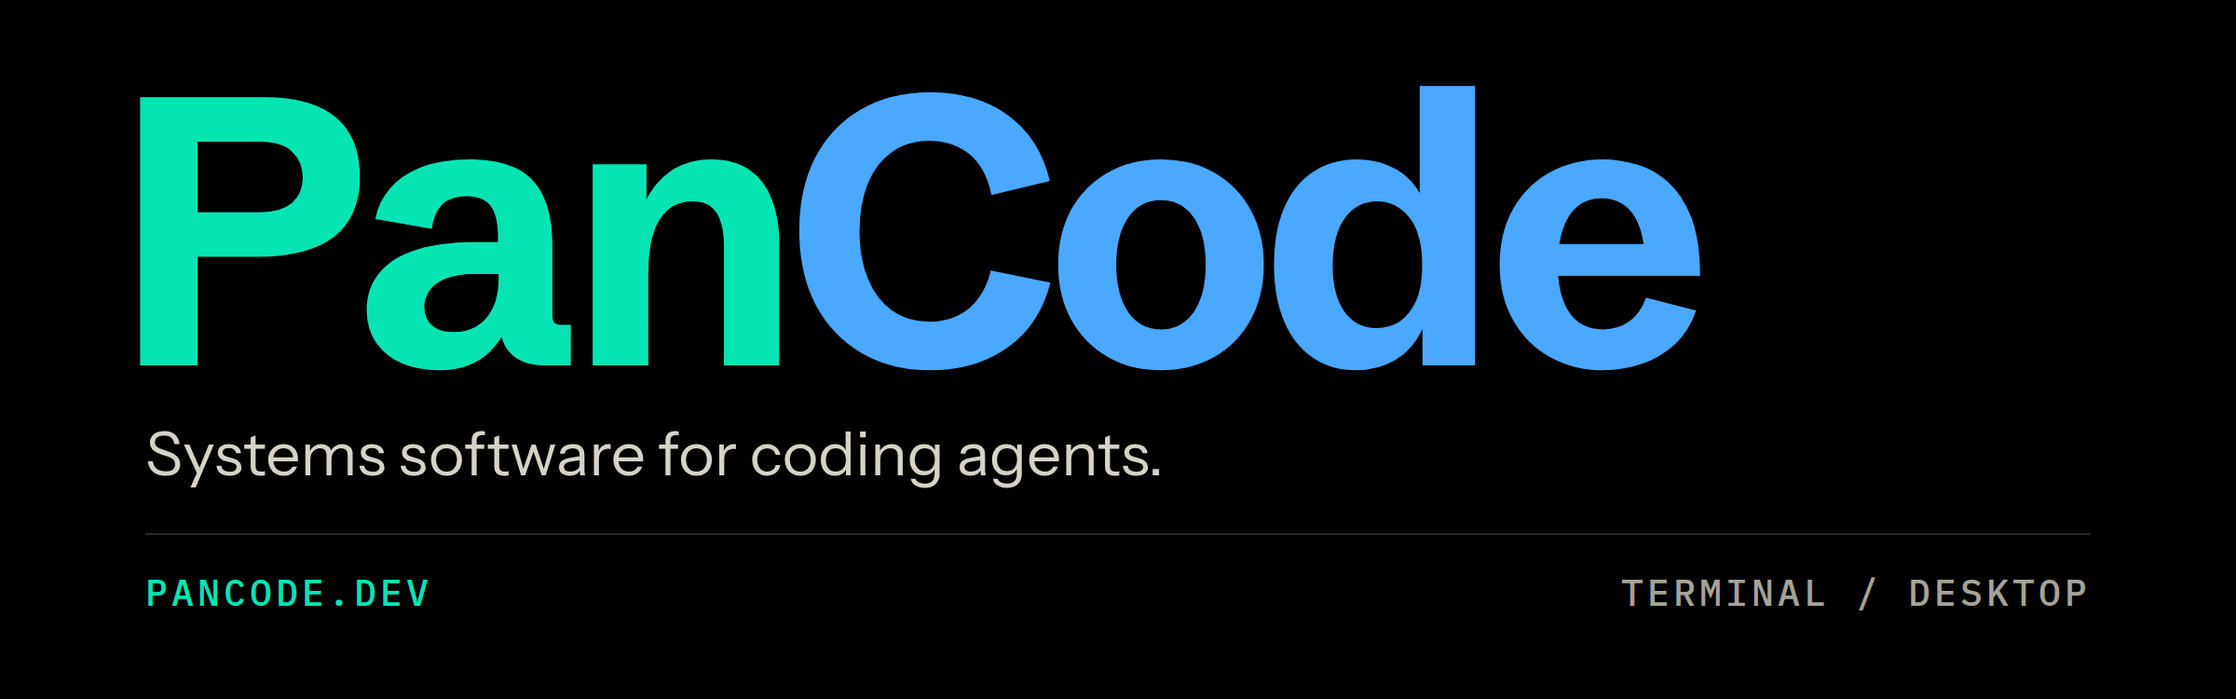
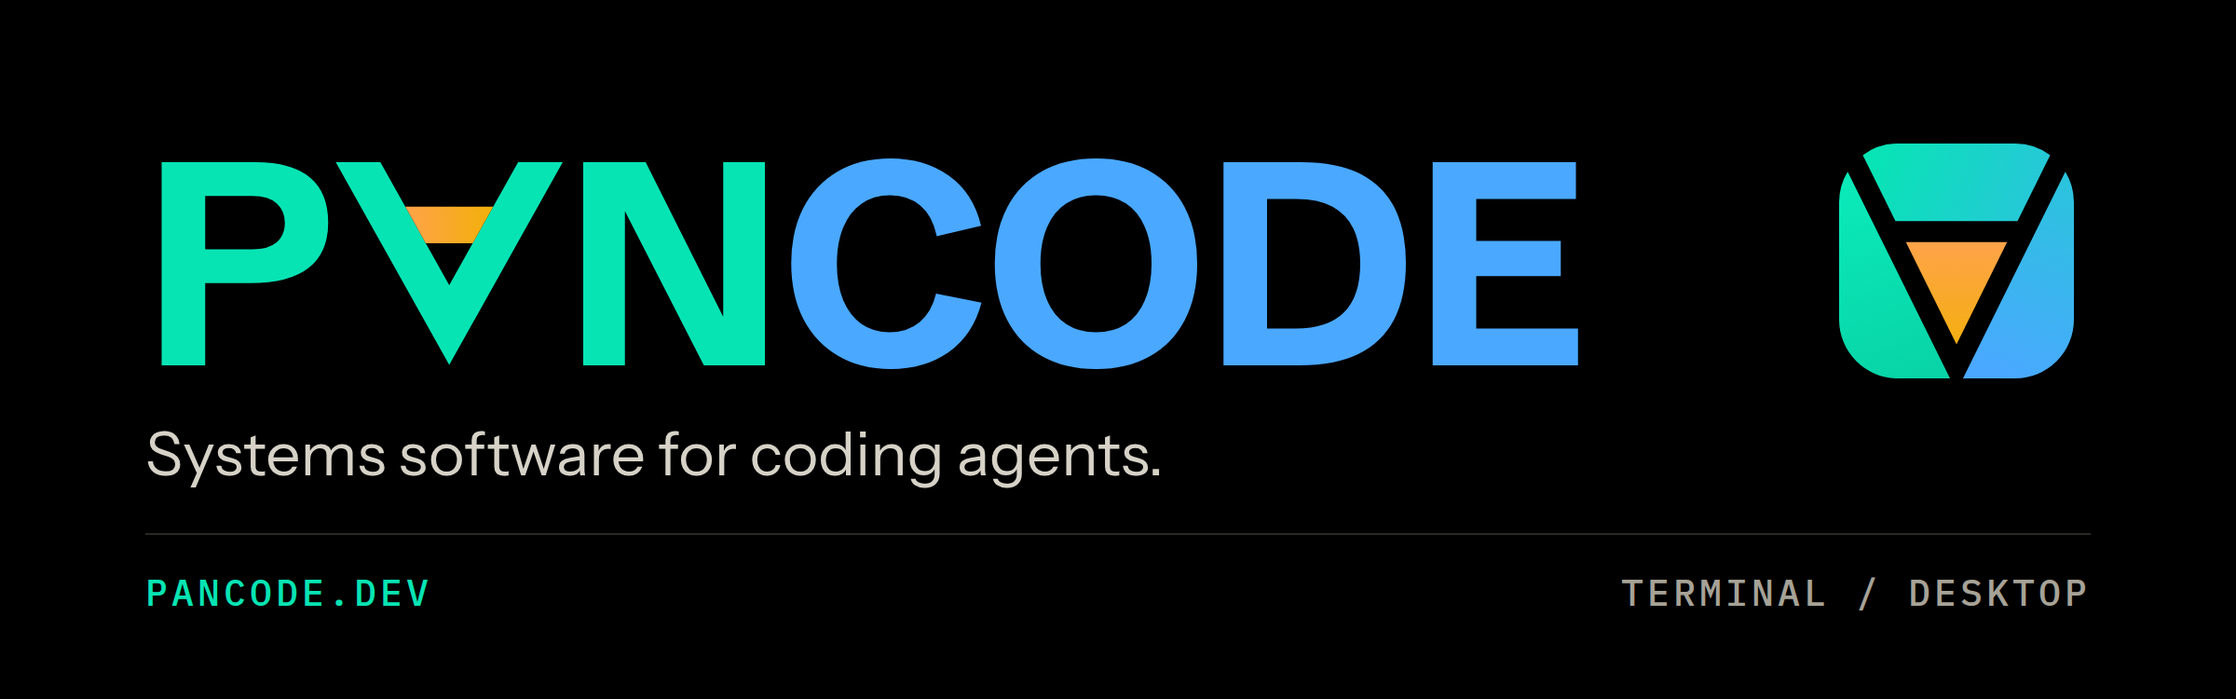
feat(site): replace the P tile with the facet mark and the for-all sign
The mark is a stone of four facets whose channel is the for-all sign:
green, green to teal, teal to azure, and an orange to amber point. It
ships with a flat cut for 16 to 24 px, a cut for light grounds, a
one-colour registry icon and a display name that sets the sign in place
of the A. The palette gains teal and orange for the mark only. The
banner, icons, favicon and social cards are rendered from the new
sources, and the cards carry the current headline.

Changed region(s): [[0.0625, 0.1227, 0.7812, 0.552], [0.8125, 0.184, 0.9375, 0.552]]

diff --git a/site/cards/square-light.html b/site/cards/square-light.html
@@ -1,3 +1,3 @@
 <!doctype html>
 <html lang="en" data-theme="light"><head><meta charset="utf-8"><meta name="robots" content="noindex"><title>PanCode social preview</title><link rel="stylesheet" href="../css/cards.css"></head>
-<body class="square"><main><div class="brand"><span class="pan">Pan</span><span class="code">Code</span></div><p class="kicker">SYSTEMS SOFTWARE FOR CODING AGENTS</p><h1>Good science.<br><em>Better software.</em></h1><p class="promise">Desktop (alpha). Terminal.<br>With the model you choose.</p><footer><span>Scientific software · PanCode License 1.0</span><span>pancode.dev</span></footer></main><aside aria-label="PanCode workflow"><header>Stay close to the work.</header><ol><li><small>01 / UNDERSTAND</small>Explore your repository</li><li><small>02 / CHANGE</small>Work through a task</li><li><small>03 / CHECK</small>Run the project’s tests</li><li><small>04 / REVIEW</small>Inspect the result</li></ol><p>Local models · Institutional endpoints · Cloud APIs</p></aside></body></html>
+<body class="square"><main><div class="brand"><img src="../assets/brand/pancode-mark.webp" width="46" height="46" alt=""><span class="pan">Pan</span><span class="code">Code</span></div><p class="kicker">SYSTEMS SOFTWARE FOR CODING AGENTS</p><h1>One harness,<br><em>across the board.</em></h1><p class="promise">Every model you can reach.<br>Every coding agent you use.</p><footer><span>Source-available · PanCode License 1.0</span><span>pancode.dev</span></footer></main><aside aria-label="What PanCode does"><header>Follow one task through.</header><ol><li><small>01 / ROUTE</small>Any provider, one set of tools</li><li><small>02 / CONTAIN</small>Every command in a sandbox</li><li><small>03 / VERIFY</small>Done, checked against what ran</li><li><small>04 / REMEMBER</small>Long tasks that stay on track</li></ol><p>Terminal · Desktop (alpha) · CI · ACP editors</p></aside></body></html>

diff --git a/site/cards/square.html b/site/cards/square.html
@@ -1,3 +1,3 @@
 <!doctype html>
 <html lang="en" data-theme="dark"><head><meta charset="utf-8"><meta name="robots" content="noindex"><title>PanCode social preview</title><link rel="stylesheet" href="../css/cards.css"></head>
-<body class="square"><main><div class="brand"><span class="pan">Pan</span><span class="code">Code</span></div><p class="kicker">SYSTEMS SOFTWARE FOR CODING AGENTS</p><h1>Good science.<br><em>Better software.</em></h1><p class="promise">Desktop (alpha). Terminal.<br>With the model you choose.</p><footer><span>Scientific software · PanCode License 1.0</span><span>pancode.dev</span></footer></main><aside aria-label="PanCode workflow"><header>Stay close to the work.</header><ol><li><small>01 / UNDERSTAND</small>Explore your repository</li><li><small>02 / CHANGE</small>Work through a task</li><li><small>03 / CHECK</small>Run the project’s tests</li><li><small>04 / REVIEW</small>Inspect the result</li></ol><p>Local models · Institutional endpoints · Cloud APIs</p></aside></body></html>
+<body class="square"><main><div class="brand"><img src="../assets/brand/pancode-mark.webp" width="46" height="46" alt=""><span class="pan">Pan</span><span class="code">Code</span></div><p class="kicker">SYSTEMS SOFTWARE FOR CODING AGENTS</p><h1>One harness,<br><em>across the board.</em></h1><p class="promise">Every model you can reach.<br>Every coding agent you use.</p><footer><span>Source-available · PanCode License 1.0</span><span>pancode.dev</span></footer></main><aside aria-label="What PanCode does"><header>Follow one task through.</header><ol><li><small>01 / ROUTE</small>Any provider, one set of tools</li><li><small>02 / CONTAIN</small>Every command in a sandbox</li><li><small>03 / VERIFY</small>Done, checked against what ran</li><li><small>04 / REMEMBER</small>Long tasks that stay on track</li></ol><p>Terminal · Desktop (alpha) · CI · ACP editors</p></aside></body></html>

diff --git a/site/cards/link-light.html b/site/cards/link-light.html
@@ -1,3 +1,3 @@
 <!doctype html>
 <html lang="en" data-theme="light"><head><meta charset="utf-8"><meta name="robots" content="noindex"><title>PanCode social preview</title><link rel="stylesheet" href="../css/cards.css"></head>
-<body class="link"><main><div class="brand"><span class="pan">Pan</span><span class="code">Code</span></div><p class="kicker">SYSTEMS SOFTWARE FOR CODING AGENTS</p><h1>Good science.<br><em>Better software.</em></h1><p class="promise">Desktop (alpha). Terminal.<br>With the model you choose.</p><footer><span>Scientific software · PanCode License 1.0</span><span>pancode.dev</span></footer></main><aside aria-label="PanCode workflow"><header>Stay close to the work.</header><ol><li><small>01 / UNDERSTAND</small>Explore your repository</li><li><small>02 / CHANGE</small>Work through a task</li><li><small>03 / CHECK</small>Run the project’s tests</li><li><small>04 / REVIEW</small>Inspect the result</li></ol><p>Local models · Institutional endpoints · Cloud APIs</p></aside></body></html>
+<body class="link"><main><div class="brand"><img src="../assets/brand/pancode-mark.webp" width="46" height="46" alt=""><span class="pan">Pan</span><span class="code">Code</span></div><p class="kicker">SYSTEMS SOFTWARE FOR CODING AGENTS</p><h1>One harness,<br><em>across the board.</em></h1><p class="promise">Every model you can reach.<br>Every coding agent you use.</p><footer><span>Source-available · PanCode License 1.0</span><span>pancode.dev</span></footer></main><aside aria-label="What PanCode does"><header>Follow one task through.</header><ol><li><small>01 / ROUTE</small>Any provider, one set of tools</li><li><small>02 / CONTAIN</small>Every command in a sandbox</li><li><small>03 / VERIFY</small>Done, checked against what ran</li><li><small>04 / REMEMBER</small>Long tasks that stay on track</li></ol><p>Terminal · Desktop (alpha) · CI · ACP editors</p></aside></body></html>

diff --git a/site/cards/link.html b/site/cards/link.html
@@ -1,3 +1,3 @@
 <!doctype html>
 <html lang="en" data-theme="dark"><head><meta charset="utf-8"><meta name="robots" content="noindex"><title>PanCode social preview</title><link rel="stylesheet" href="../css/cards.css"></head>
-<body class="link"><main><div class="brand"><span class="pan">Pan</span><span class="code">Code</span></div><p class="kicker">SYSTEMS SOFTWARE FOR CODING AGENTS</p><h1>Good science.<br><em>Better software.</em></h1><p class="promise">Desktop (alpha). Terminal.<br>With the model you choose.</p><footer><span>Scientific software · PanCode License 1.0</span><span>pancode.dev</span></footer></main><aside aria-label="PanCode workflow"><header>Stay close to the work.</header><ol><li><small>01 / UNDERSTAND</small>Explore your repository</li><li><small>02 / CHANGE</small>Work through a task</li><li><small>03 / CHECK</small>Run the project’s tests</li><li><small>04 / REVIEW</small>Inspect the result</li></ol><p>Local models · Institutional endpoints · Cloud APIs</p></aside></body></html>
+<body class="link"><main><div class="brand"><img src="../assets/brand/pancode-mark.webp" width="46" height="46" alt=""><span class="pan">Pan</span><span class="code">Code</span></div><p class="kicker">SYSTEMS SOFTWARE FOR CODING AGENTS</p><h1>One harness,<br><em>across the board.</em></h1><p class="promise">Every model you can reach.<br>Every coding agent you use.</p><footer><span>Source-available · PanCode License 1.0</span><span>pancode.dev</span></footer></main><aside aria-label="What PanCode does"><header>Follow one task through.</header><ol><li><small>01 / ROUTE</small>Any provider, one set of tools</li><li><small>02 / CONTAIN</small>Every command in a sandbox</li><li><small>03 / VERIFY</small>Done, checked against what ran</li><li><small>04 / REMEMBER</small>Long tasks that stay on track</li></ol><p>Terminal · Desktop (alpha) · CI · ACP editors</p></aside></body></html>

diff --git a/site/css/brand.css b/site/css/brand.css
@@ -54,6 +54,10 @@
 	--pancode-violet300: #c3affe;
 	--pancode-violet700: #6343a6;
 	--pancode-violet950: #18102a;
+	--pancode-teal400: #28c6da;
+	--pancode-teal700: #0b7f9c;
+	--pancode-orange400: #ffa24d;
+	--pancode-orange700: #a8500a;
 	--pancode-white: #ffffff;
 	--pancode-mist1: #f5f3ee;
 	--pancode-mist2: #ebe8e1;

diff --git a/site/css/cards.css b/site/css/cards.css
@@ -29,6 +29,9 @@ main {
 	align-items: center;
 	min-height: 46px;
 }
+.brand img {
+	margin-right: 14px;
+}
 :where(.brand) span {
 	font: 700 40px / 1 var(--font-display);
 	letter-spacing: -0.04em;

diff --git a/site/image-variants.py b/site/image-variants.py
@@ -114,10 +114,11 @@ def generate():
 def generate_icons():
     """Square browser and app icons, the maskable app icon, and favicon.ico, all from the rendered mark."""
     mark = Image.open(SITE / "assets/brand/pancode-mark.png").convert("RGBA")
+    small_cut = Image.open(SITE / "assets/brand/pancode-mark-small.png").convert("RGBA")
 
-    def fit(size, scale, ground=None):
+    def fit(size, scale, ground=None, source=mark):
         canvas = Image.new("RGBA", (size, size), ground or (0, 0, 0, 0))
-        fitted = mark.copy()
+        fitted = source.copy()
         fitted.thumbnail((round(size*scale), round(size*scale)), Image.Resampling.LANCZOS)
         canvas.alpha_composite(fitted, ((size-fitted.width)//2, (size-fitted.height)//2))
         return canvas
@@ -129,8 +130,8 @@ def generate_icons():
     brand = json.loads((SITE / "design-system.json").read_text())
     black = Image.new("RGB", (1, 1), brand["palette"]["black"]).getpixel((0, 0))
     fit(512, .8, (*black, 255)).save(SITE / "assets/responsive/pancode-icon-maskable-512.png", optimize=True)
-    # At whole multiples of the 16 unit grid the mark fills the icon, so each cell sits on whole pixels.
-    small = [fit(size, 1) for size in (48, 32, 16)]
+    # The 16 pixel image takes the small cut, whose wider channel survives at that size.
+    small = [fit(48, 1), fit(32, 1), fit(16, 1, source=small_cut)]
     small[0].save(SITE / "assets/responsive/favicon.ico", sizes=[(16, 16), (32, 32), (48, 48)], append_images=small[1:])
 
 

diff --git a/site/DESIGN.md b/site/DESIGN.md
@@ -10,19 +10,23 @@ Use **PanCode** as the product name in prose, headings and metadata. `pancode` i
 
 ### Mark
 
-The mark is the P of the wordmark: the Schibsted Grotesk 700 P in the brand green, 10 units tall on a 16 unit grid with its stem on whole units, on a black tile with a 3 unit corner radius. `assets/brand/pancode-mark.svg` is the source. It holds geometry only; every colour is a `var(--palette-<name>, #hex)` reference that `site/render-brand.mjs` rewrites from the palette before rendering, so a palette change reaches every raster in one run.
+The mark is a stone of four facets, and the channel between them is the for-all sign, ∀. PAN means all, so the sign says the name: one harness for all models and all agents. PanCode works in the gaps between the tools a developer already has, and the mark draws those gaps. `assets/brand/pancode-mark.svg` is the source, on a 64 unit grid: a 56 unit rounded square with 14 unit corners, cut by a channel 5 units wide whose two arms leave through the upper corners and whose bar sits 25 units from the top. It holds geometry only; every colour is a `var(--palette-<name>, #hex)` reference that `site/render-brand.mjs` rewrites from the palette before rendering, so a palette change reaches every raster in one run.
 
-- The P is `green400` and the tile is `black`. Never recolour, outline, rotate, skew or add effects to the artwork.
-- Minimum size is 16 px, where one grid unit is one pixel. Render at whole multiples of 16 where possible so the stem stays crisp.
-- Clear space is 3 grid units on every side, which the tile already provides. On black the tile disappears and the glyph floats; on any other ground the tile is the container.
-- Single-colour contexts (`assets/acp-registry/icon.svg`) draw the P alone in the current colour. In the terminal the mark is three cells, `▐P▌`: the P in the on-accent ink on a brand green tile, and `[P]` in ASCII mode.
+- The left facet runs `green300` to `green500`, the top `green400` to `teal400`, the right `teal400` to `azure400`, and the point `orange400` to `amber300`. Green leads, the azure of the name closes the right side, and the point is the one warm note. Never recolour, outline, rotate, skew or add effects to the artwork.
+- `pancode-mark-small.svg` is the cut for 16 to 24 px: flat `green400`, `green400`, `teal400` and `orange400`, with the channel widened to 7.2 units. The favicon and the 16 px icon use it. Minimum size is 16 px.
+- `pancode-mark-light.svg` is the cut for light grounds, in the 600 to 800 steps of the same ramps.
+- The stone is its own container and has no tile. On black and on paper it stands directly on the ground. App icons set it at 80% on a black ground. Clear space is a quarter of the mark's width on every side.
+- Single-colour contexts (`assets/acp-registry/icon.svg`) draw the four facets of the small cut in the current colour.
+- In the terminal the mark is three cells, `▐∀▌`: the sign in the on-accent ink on a brand green tile, and `[V]` in ASCII mode. Where one cell is all there is, it is `∀` (U+2200) in the brand green.
 - There is one mark. Do not draw distinct logos, mascots or badges for PanCode applications or interfaces.
 
 ### Wordmark
 
-`assets/brand/pancode-wordmark.svg` (dark grounds) and `pancode-wordmark-light.svg` (light grounds) set the name as outlines. The name is PanCode in Schibsted Grotesk 700 with -0.04em tracking, one word, capital P and C. Pan takes the brand green and Code the secondary azure: `green400` and `azure400` on dark grounds, `green700` and `azure600` on light. The name stands without the mark beside it. In HTML the wordmark is live text in the display face, with the two halves in `--accent` and `--secondary`.
+`assets/brand/pancode-wordmark.svg` (dark grounds) and `pancode-wordmark-light.svg` (light grounds) set the name as outlines. The name is PanCode in Schibsted Grotesk 700 with -0.04em tracking, one word, capital P and C. Pan takes the brand green and Code the secondary azure: `green400` and `azure400` on dark grounds, `green700` and `azure600` on light. The name stands with the mark to its left or alone. In HTML the wordmark is live text in the display face, with the two halves in `--accent` and `--secondary`.
 
-In the terminal the wordmark is the block lettering in `src/interactive/welcome-art.ts`, PAN over CODE. In truecolor one ramp runs from the brand green at the top of PAN to the secondary azure at the foot of CODE, mixed in RGB so the bridge is a clean teal; the one-band form runs the same ramp left to right. At 256 and 16 colours PAN is the brand green and CODE the secondary azure, as two flat tones. This green-to-azure ramp is the only gradient in the identity.
+`pancode-display.svg` and `pancode-display-light.svg` set the display name: PANCODE in capitals with the for-all sign at cap height in place of the A, P and N in the brand green, CODE in the azure, and the bar of the sign running `orange400` to `amber300`. It is for display sizes only: the banner, social cards, the 404 page and the terminal welcome. It never appears in running text, navigation or controls, and never below 32 px of cap height.
+
+In the terminal the wordmark is the block lettering in `src/interactive/welcome-art.ts`, PAN over CODE. In truecolor one ramp runs from the brand green at the top of PAN to the secondary azure at the foot of CODE, mixed in RGB so the bridge is a clean teal; the one-band form runs the same ramp left to right. At 256 and 16 colours PAN is the brand green and CODE the secondary azure, as two flat tones. The A of PAN is drawn turned over, as the for-all sign. This green-to-azure ramp and the graded facets of the mark are the only gradients in the identity.
 
 The family names follow the same rule in HTML: PanCode, PanStore, PanKit, PanHub and PanSDK are one word each, `Pan` in `.brand-pan` (`--accent`) and the rest in `.brand-code` (`--secondary`). They share the one mark; no family member gets its own logo. Never write PanOS, and never call PanHub a library.
 
@@ -33,6 +37,7 @@ The family names follow the same rule in HTML: PanCode, PanStore, PanKit, PanHub
 - **Ground.** The dark page is true black, `#000000`, for AMOLED screens. Surfaces above it step through the `void` ramp, a near-neutral with a trace of green: `void1` raised, `void2` sunk and hover, `void3` overlay, `void4` hairline, `void5` strong line, `void6` control border.
 - **Brand green.** The brand ramp is a teal-green at OKLCH hue 170. `green400` `#07e4b4` is the focal green on black and the colour of Pan in the wordmark, the mark and the terminal rails. It marks the brand, links, the primary action, the focus ring, selection and the terminal prompt. It is never a state: green does not mean success here.
 - **Azure secondary.** `azure400` `#4aa8ff` is the colour of Code in the wordmark. It is spent sparingly: section numbers and small mono labels, version tags, one highlight per view. It is never a fill behind running text and never an error or a warning.
+- **Mark colours.** `teal400` `#28c6da` is the midpoint of the green and the azure, and `orange400` `#ffa24d` with `amber300` is the warm point of the mark; `teal700` and `orange700` are their light-ground forms. The maintainer asked for a mark that stays in the green tones with one warm splash. These colours belong to the mark and to art built from it, never to an interface role.
 - **States.** Success is `leaf`, warning is `amber`, error is `red`, info takes the `azure` ramp. Each has a foreground and a wash per theme. Leaf is a true green at OKLCH hue 144, 26 degrees from the brand teal, so success never reads as the brand. Every state also carries a glyph or a word; colour alone never carries meaning.
 - **Text.** Dark uses the `ink` ramp, light uses `pine`. Primary text is not pure white: `ink1` is a warm ivory that avoids halation on black. `faint` is for decoration and disabled labels only, on the ground and the first raised surface.
 - **Light theme.** A warm off-white paper (`mist1`) with white raised surfaces. The focal green cannot carry text on a light ground, so links and focus use `green700` and the secondary uses `azure600`, and filled controls invert: a black fill with brand green text. Black slabs with green type are what keep the light theme PanCode.

diff --git a/site/README.md b/site/README.md
@@ -32,7 +32,7 @@ Serve a finished build as Pages would with `node site/dev.mjs --serve <directory
 - `partials.html` supplies one header and footer. Primary navigation is Overview, Docs, Tutorials, Research.
 - `policy.mjs` runs on every build and checks palette drift, color declarations, motion tokens, public copy length, disallowed phrases, navigation, attribution, and documentation boundaries.
 
-The identity is true black with a brand green, an azure secondary and warm ivory ink. The wordmark sets Pan in the green and Code in the azure. The mark is the P of the wordmark in the green on a black tile; its hand-written SVG source is `assets/brand/pancode-mark.svg` at the repository root, `node site/render-brand.mjs` renders it into `site/assets/brand/`, and the provenance file there records the rendered hash and dimensions.
+The identity is true black with a brand green, an azure secondary and warm ivory ink. The wordmark sets Pan in the green and Code in the azure. The mark is a stone of four facets with the for-all sign as the channel between them; its hand-written SVG sources are `assets/brand/pancode-mark.svg` and its small and light cuts at the repository root, `node site/render-brand.mjs` renders them into `site/assets/brand/`, and the provenance file there records the rendered hash and dimensions.
 
 Export the selected artwork, tokens, fonts, and licenses for another PanCode project with `node site/export-brand.mjs --out <scratch>/pancode-brand-kit`. The kit contains no site layout code.
 
@@ -108,7 +108,7 @@ The build writes `sitemap.xml`, `robots.txt`, `llms.txt`, `llms-full.txt`, and `
 
 Page titles and descriptions follow the canonical product copy: the overview title is `PanCode:` plus `product.json` `tagline`, its description is `summary`, and every other page is `<title> · PanCode` unless its title already names PanCode. `description`, the longer product description, feeds the structured data and `llms.txt`. Every page has a structured data graph (WebSite, a Person publisher, WebPage, breadcrumbs, and the article or software type that fits), and the home page adds a SoftwareApplication with a free offer and its author, and a FAQPage built from its questions. Each page declares `theme-color` for light and dark colour-scheme preferences, set to the paper the page shows without JavaScript; the theme script then sets both to the applied theme.
 
-`python3 site/image-variants.py --icons` renders the icon set from the rendered mark: `favicon.ico` (16, 32 and 48 px, published at the site root), the 180 px touch icon, the 192 and 512 px manifest icons, and a maskable 512 px icon. The build also publishes the mark source as the SVG favicon, with its palette references resolved. After an artwork change, run `node site/render-brand.mjs` and then this command. Social previews are real product captures: `python3 site/image-variants.py --social` renders a 1200x630 PNG for every tutorial cover plus the default GUI capture into `assets/social/`, recorded in `social-images.json`. Hreflang alternates are not used because the site has one language. `check.py` enforces sitemap coverage and format, redirect exclusion, preview size, FAQ coverage, the robots policy, and llms link coverage.
+`python3 site/image-variants.py --icons` renders the icon set from the rendered mark: `favicon.ico` (16, 32 and 48 px, published at the site root), the 180 px touch icon, the 192 and 512 px manifest icons, and a maskable 512 px icon. The build also publishes the mark sources with their palette references resolved; the small cut is the SVG favicon. After an artwork change, run `node site/render-brand.mjs` and then this command. Social previews are real product captures: `python3 site/image-variants.py --social` renders a 1200x630 PNG for every tutorial cover plus the default GUI capture into `assets/social/`, recorded in `social-images.json`. Hreflang alternates are not used because the site has one language. `check.py` enforces sitemap coverage and format, redirect exclusion, preview size, FAQ coverage, the robots policy, and llms link coverage.
 
 `node site/build.mjs --out <directory>` supports an alternative output path. It refuses to replace a nonempty directory without its ownership marker. Output contains only published HTML, selected browser scripts and styles, product assets, fonts and licenses, search metadata, and the source manifest.
 

diff --git a/assets/README.md b/assets/README.md
@@ -3,12 +3,16 @@
 `assets/` contains the canonical brand artwork and product captures.
 [`media-manifest.json`](media-manifest.json) records source paths, hashes,
 dimensions, descriptions, and delivery copies for the website and browser app.
-The brand sources are hand-written SVG: `brand/pancode-mark.svg` draws the P of
-the wordmark in the brand green on a black tile, on a 16 unit grid.
+The brand sources are hand-written SVG. `brand/pancode-mark.svg` draws the mark:
+four facets of one stone on a 64 unit grid, with the for-all sign as the channel
+between them. `brand/pancode-mark-small.svg` is its flat cut for 16 to 24 pixels
+and `brand/pancode-mark-light.svg` its cut for light grounds.
 `brand/pancode-wordmark.svg` and `brand/pancode-wordmark-light.svg` set the name
-as outlines, Pan in green and Code in azure, for dark and light grounds, and
-`brand/banner.svg` adds the tagline and site address. Every brand raster derives
-from the mark and the banner.
+as outlines, Pan in green and Code in azure, for dark and light grounds.
+`brand/pancode-display.svg` and `brand/pancode-display-light.svg` set the display
+name, with the sign in place of the A, and `brand/banner.svg` adds the mark, the
+tagline and the site address. Every brand raster derives from the mark, its small
+cut and the banner.
 
 ## Regenerate the brand
 
